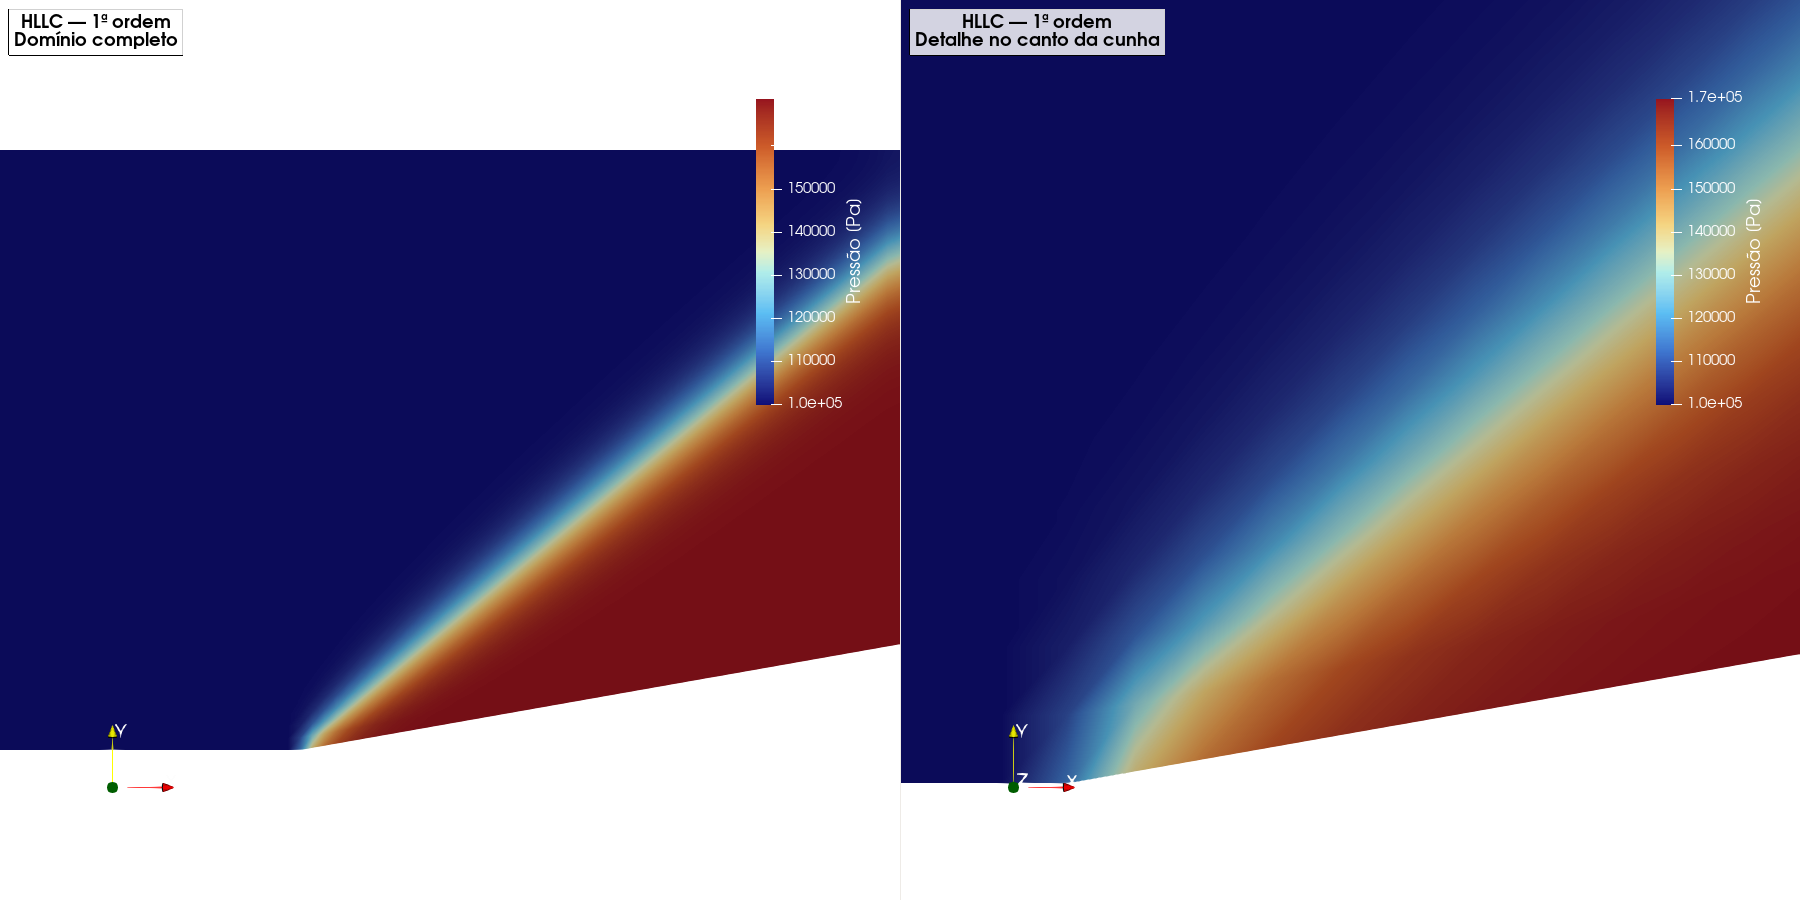
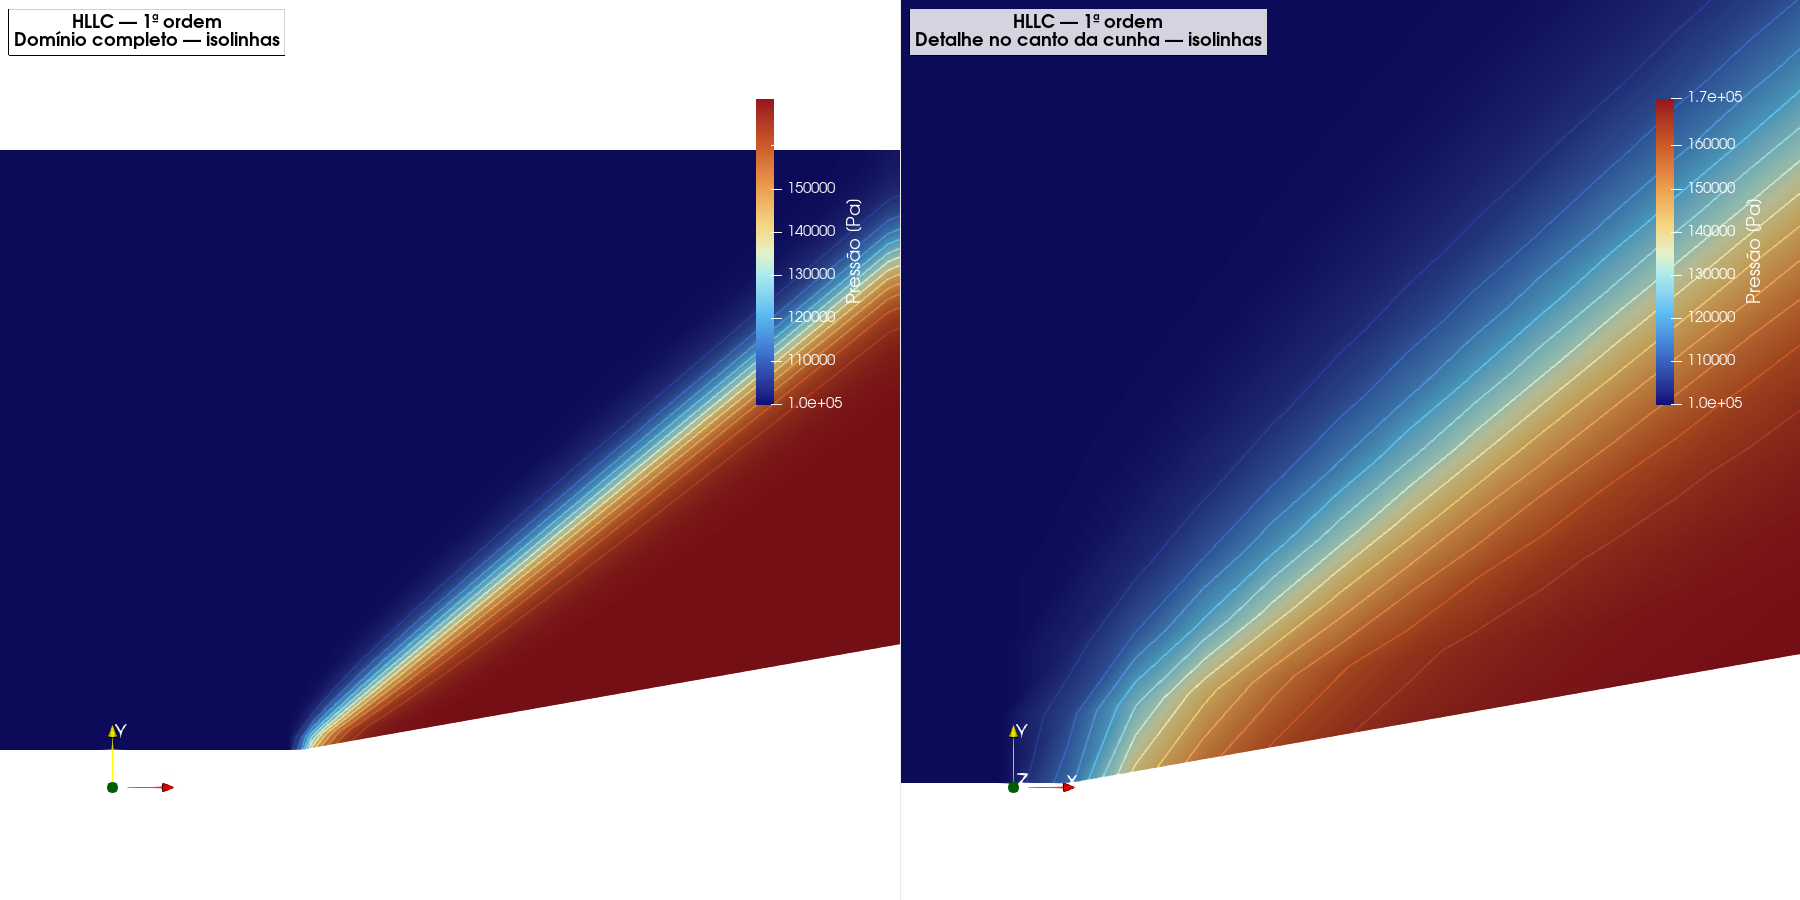
Add pressure and Mach contour overlays

diff --git a/projeto2/paraview_postprocess.py b/projeto2/paraview_postprocess.py
@@ -9,6 +9,7 @@ from pathlib import Path
 from paraview.simple import (  # type: ignore[import-not-found]
     AssignViewToLayout,
     ColorBy,
+    Contour,
     CreateLayout,
     CreateView,
     GetColorTransferFunction,
@@ -76,6 +77,29 @@ def add_annotation(view, text: str) -> None:
     display.Bold = 1
 
 
+def add_contours(reader, view, field: str, count: int = 12) -> None:
+    """Sobrepõe isolinhas uniformemente distribuídas do campo exibido."""
+    array = reader.GetPointDataInformation().GetArray(field)
+    if array is None:
+        raise RuntimeError(f"Campo escalar ausente no resultado: {field}")
+    lower, upper = array.GetRange()
+    if upper <= lower:
+        return
+
+    contours = Contour(Input=reader)
+    contours.ContourBy = ["POINTS", field]
+    contours.Isosurfaces = [
+        lower + (upper - lower) * index / (count + 1)
+        for index in range(1, count + 1)
+    ]
+    contours.UpdatePipeline()
+    display = Show(contours, view)
+    display.Representation = "Wireframe"
+    display.AmbientColor = [0.0, 0.0, 0.0]
+    display.DiffuseColor = [0.0, 0.0, 0.0]
+    display.LineWidth = 1.5
+
+
 def render_two_views(
     input_path: Path,
     output_path: Path,
@@ -96,8 +120,10 @@ def render_two_views(
 
     add_field_to_view(reader, full_view, field, scalar_title, rescale=True)
     add_field_to_view(reader, near_view, field, scalar_title, rescale=False)
-    add_annotation(full_view, f"{case_title}\nDomínio completo")
-    add_annotation(near_view, f"{case_title}\nDetalhe no canto da cunha")
+    add_contours(reader, full_view, field)
+    add_contours(reader, near_view, field)
+    add_annotation(full_view, f"{case_title}\nDomínio completo — isolinhas")
+    add_annotation(near_view, f"{case_title}\nDetalhe no canto da cunha — isolinhas")
     set_2d_camera(full_view, (0.0, 1.5), (0.0, 1.0))
     # Vértice da cunha em x = 0,5 m. Esta janela é ~5× menor que o domínio.
     set_2d_camera(near_view, (0.45, 0.72), (0.00, 0.20))
